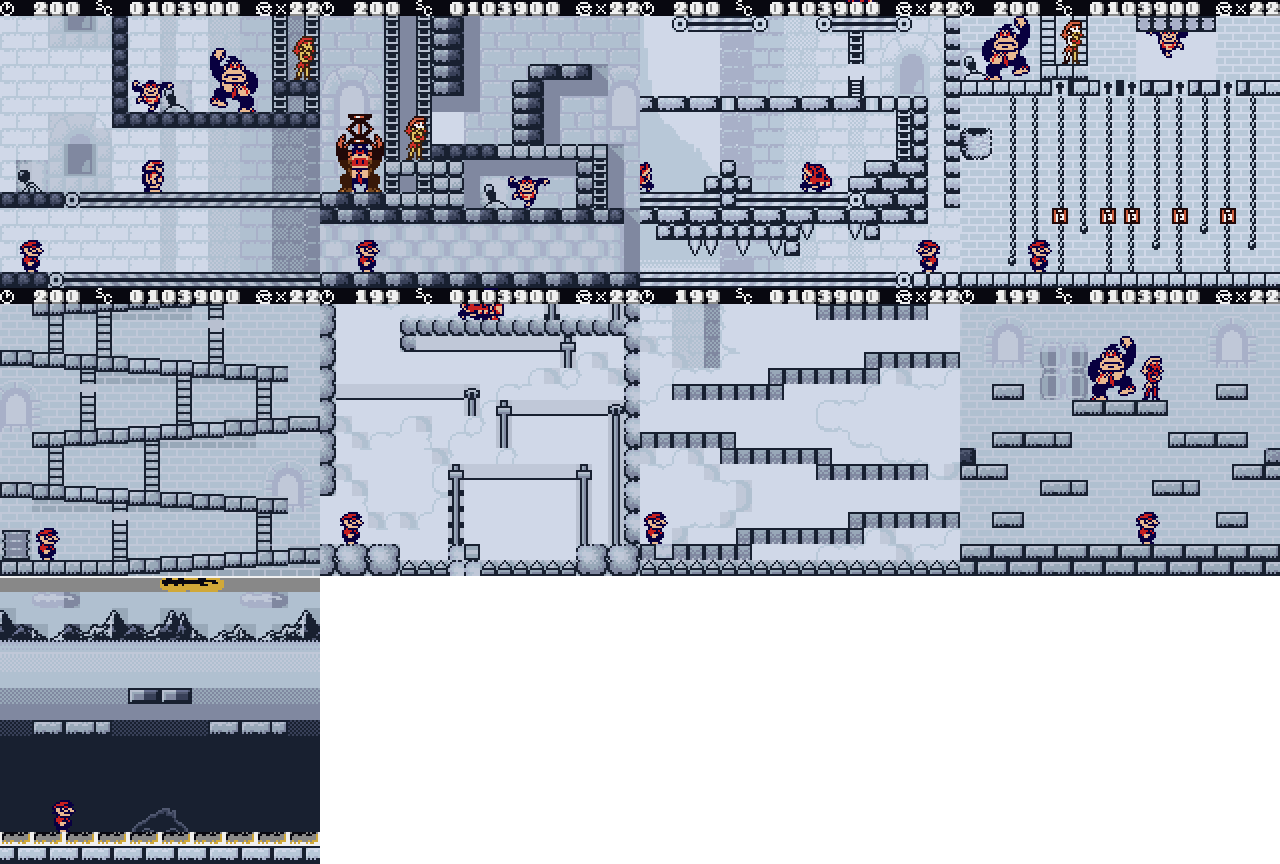
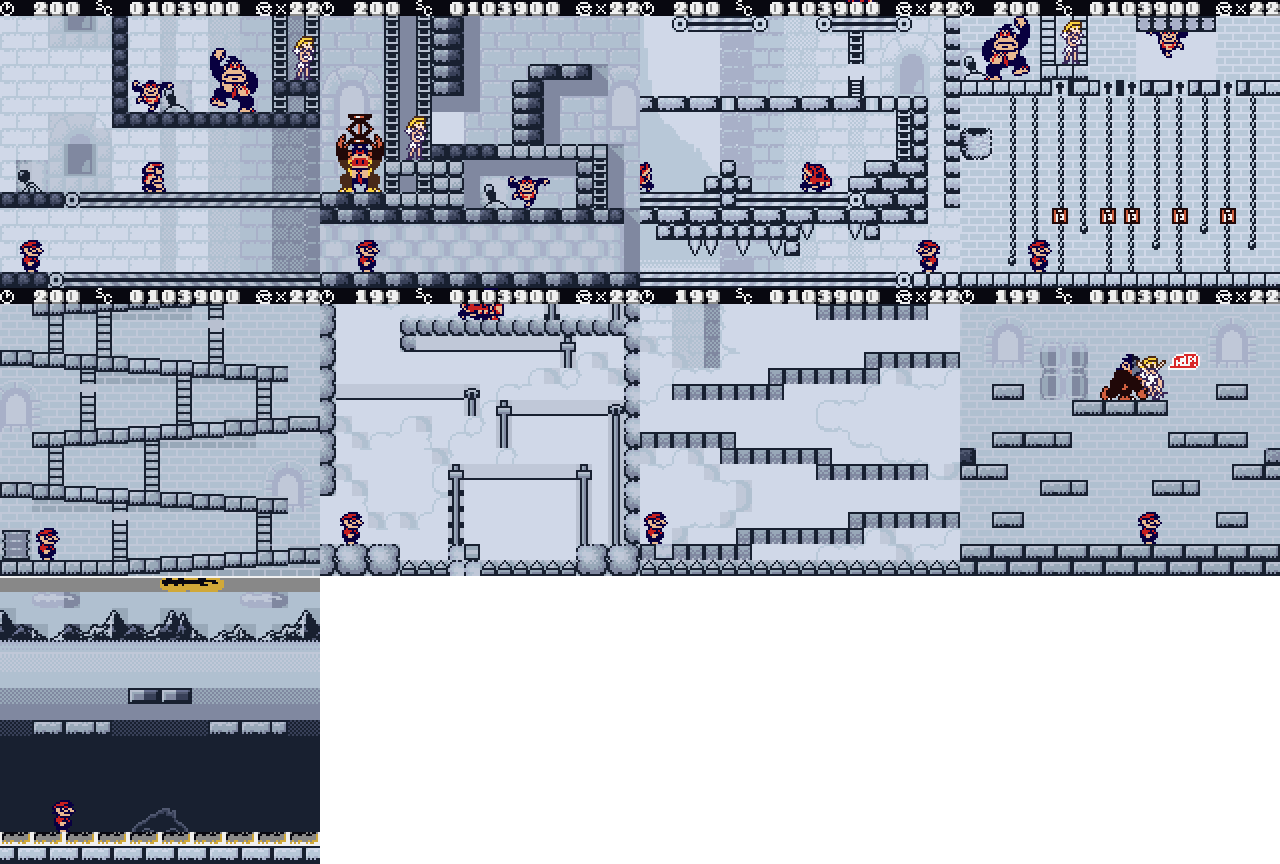
Pauline: yellow hair, white dress, red HELP balloon with white words in all world DK stages; refresh screenshots

diff --git a/donkey-kong/tools/dkbuild.py b/donkey-kong/tools/dkbuild.py
@@ -58,9 +58,18 @@ def build(orig,out,dump=os.path.join(ROOT,'out','sgb')):
     for b,addr,data in maps:
         o=b*0x4000+addr-0x4000; assert all(x==0xff for x in rom[o:o+len(data)]); rom[o:o+len(data)]=data
     print('stage maps',len(maps),'bytes',sum(len(m[2]) for m in maps))
-    blob4+=bytes(blob5)+bytes(slots)
+    pj=json.load(open(os.path.join(ROOT,'data','pauline.json'))); psteps=sorted(int(k) for k in pj if int(k)>=13); idx=bytearray(); rec=bytearray()
+    for st in psteps:
+        idx+=_st.pack('<H',st); r=pj[str(st)]
+        for role in ('head','body','bubble'):
+            ids=sorted(int(k,16) for k,v in r.items() if v==role); assert len(ids)=={'head':4,'body':6,'bubble':2}[role],(st,role,ids)
+            rec+=bytes(ids)
+    idx+=b'\xff\xff'; assert len(idx)<=48
+    idx+=bytes(48-len(idx))
+    blob4+=bytes(blob5)+bytes(slots); paulidx=0x7002+len(blob2)+len(blob3)+len(blob4); blob4+=bytes(idx); paulrec=0x7002+len(blob2)+len(blob3)+len(blob4); blob4+=bytes(rec)
+    a_paul=(paulidx,paulrec)
     assert 0x0c not in sec; sec[0x0c]=(0x7002,bytes(blob2)+bytes(blob3)+bytes(blob4)); assert 0x7002+len(sec[0x0c][1])<=0x8000
-    a=gbasm.Asm(); a.sym['DPAL']=sym['DPAL'][1]; a.sym['ATFTAB']=sym['ATFTAB'][1]; a.sym['OVRD']=ovrd; a.sym['OVRD2']=0x7002; a.sym['OVRDC']=0x7002+896; a.sym['OVRDT']=0x7002+896+744; a.sym['OVRDG']=0x7002+896+744+9*128; a.sym['OVRDTAB']=a.sym['OVRDG']+256; a.sym['OVRSLOT']=a.sym['OVRDTAB']+331
+    a=gbasm.Asm(); a.sym['DPAL']=sym['DPAL'][1]; a.sym['ATFTAB']=sym['ATFTAB'][1]; a.sym['OVRD']=ovrd; a.sym['OVRD2']=0x7002; a.sym['OVRDC']=0x7002+896; a.sym['OVRDT']=0x7002+896+744; a.sym['OVRDG']=0x7002+896+744+9*128; a.sym['OVRDTAB']=a.sym['OVRDG']+256; a.sym['OVRSLOT']=a.sym['OVRDTAB']+331; a.sym['PAULIDX']=a_paul[0]; a.sym['PAULREC']=a_paul[1]
     a.include(os.environ.get('HOOKS') or os.path.join(ROOT,'color','hooks.s')); code=a.link(); S=a.sym
     json.dump({k:v for k,v in S.items() if isinstance(v,int)},open(os.path.join(ROOT,'out','syms.json'),'w'))
     lo,hi=min(code),max(k for k in code if k<0x4000)
@@ -95,6 +104,13 @@ def build(orig,out,dump=os.path.join(ROOT,'out','sgb')):
             if 0x10000<=i<0x14000 and lo&m and hi&m: rom[i+2*row+1]=hi&~m; n+=1
             i=orig.find(tile,i+1)
         print('mario eye tile %s row %d col %d: %d copies'%(th[:8],row,col,n))
+    for th in json.load(open(os.path.join(ROOT,'data','pauline_tiles.json'))):   # Pauline's upper dress: idx2 -> idx3 so the head palette shows it light (hair stays yellow)
+        tile=bytes.fromhex(th); i=orig.find(tile); n=0
+        while i>=0:
+            for r in range(8):
+                lo,hi=rom[i+2*r],rom[i+2*r+1]; rom[i+2*r]=lo|(hi&~lo)
+            n+=1; i=orig.find(tile,i+1)
+        print('pauline dress tile',th[:8],n,'copies')
     rom[0x143]=0x80                                          # CGB-compatible
     c=0
     for i in range(0x134,0x14d): c=(c-rom[i]-1)&0xff

diff --git a/donkey-kong/tools/paulscan.py b/donkey-kong/tools/paulscan.py
@@ -1,0 +1,40 @@
+"""paulscan.py rom -> out/pauline.json: per stage, OAM tile ids whose VRAM data equals Pauline's tiles of stage 24 (head / body / bubble)"""
+import sys,json; sys.path.insert(0,'tools')
+from gsearch import *
+rom=sys.argv[1]
+r=open('backup/dk.original.gb','rb').read(); b=0x0c*0x4000+(0x4f97-0x4000)
+T=[(r[b+i*2],r[b+i*2+1]) for i in range(331)]
+s=parse(open('out/state3/orig.raw','rb').read())
+def boot_to(step):
+    p=boot(rom,s); m=p.memory
+    m[0xc82b]=s['wram'][0x82b]|0x80; m[0xda40]=0x9c
+    for f in range(4000):
+        if f==5: v=step-1; m[0xc85c]=v&255; m[0xc85d]=v>>8
+        if f>=20 and f%40==0: p.button('a',8)
+        p.tick()
+        if (m[0xc85c]|m[0xc85d]<<8)==step and f>40 and m[0xff8f]!=0: break
+    return p,m
+def raw(m,t,half): a=0x8000+((t&0xfe)+half)*16; return bytes(m[a+k] for k in range(16))
+p,m=boot_to(24)
+ref={}   # (top,bottom) raw -> role
+roles={0xa6:'head',0xa8:'head',0xb2:'head',0xb4:'head',0xaa:'body',0xac:'body',0xae:'body',0xb0:'body',0xb6:'body',0xb8:'body',0xba:'bubble',0xbc:'bubble'}
+for f in range(600):
+    p.tick()
+    for i in range(40):
+        y,x,t=m[0xfe00+i*4],m[0xfe00+i*4+1],m[0xfe00+i*4+2]
+        if y and t in roles: ref[(raw(m,t,0),raw(m,t,1))]=roles[t]
+print(len(ref),'reference tiles')
+res={}
+for i,(o,a) in enumerate(T):
+    if o!=1: continue
+    p,m=boot_to(i); found={}
+    for f in range(600):
+        p.tick()
+        if f%2: continue
+        for k in range(40):
+            y,x,t=m[0xfe00+k*4],m[0xfe00+k*4+1],m[0xfe00+k*4+2]
+            if y and y<160:
+                key=(raw(m,t,0),raw(m,t,1))
+                if key in ref: found[t]=ref[key]
+    if found: res[i]={hex(t):v for t,v in found.items()}; print(i,res[i],flush=True)
+json.dump(res,open('out/pauline.json','w'))

diff --git a/donkey-kong/tools/themes.py b/donkey-kong/tools/themes.py
@@ -27,5 +27,10 @@ for w,(name,sky,dec,st,dn,ink) in W.items():
         q3=[(157,117,115),(128,84,80),(102,52,50),(48,24,26)]
         bg=[q0,q1,q2,q3,q1,q2,q3,ov['bg'][7]]
     if w==1: bg=ov['bg']       # Big-City: exactly the 1-1 / 1-2 palettes
-    out.append({'world':w,'name':name,'bg':[[list(map(float,c)) for c in p] for p in bg],'obj':ov['obj']})
+    obj=[list(p) for p in ov['obj']]
+    # Pauline (palettes 5-7 are derived with OBP1: shade0 unused, shade1 = idx2, shade2 = idx3, shade3 = idx1)
+    obj[5]=[(0,0,0),(252,214,64),(254,234,214),(72,40,24)]      # head: yellow hair, light skin, dark outline
+    obj[6]=[(0,0,0),(255,255,255),(244,200,164),(56,44,88)]     # body: white dress, skin, outline
+    obj[7]=[(0,0,0),(0,0,0),(220,40,44),(255,255,255)]          # HELP balloon: red, white words and border
+    out.append({'world':w,'name':name,'bg':[[list(map(float,c)) for c in p] for p in bg],'obj':[[list(map(float,c)) for c in p] for p in obj]})
 json.dump({'themes':out,'cls':ov['cls']},open('out/themes.json','w')); print('saved out/themes.json')

diff --git a/donkey-kong/tools/paulbottoms.py b/donkey-kong/tools/paulbottoms.py
@@ -1,0 +1,18 @@
+"""bottom halves of Pauline's head sprites (stage 24) -> data/pauline_tiles.json (patched in the ROM: dress pixels idx2 -> idx3)"""
+import sys,json; sys.path.insert(0,'tools')
+from gsearch import *
+s=parse(open('out/state3/orig.raw','rb').read()); p=boot(sys.argv[1],s); m=p.memory
+m[0xc82b]=s['wram'][0x82b]|0x80; m[0xda40]=0x9c; step=24
+for f in range(4000):
+    if f==5: v=step-1; m[0xc85c]=v&255; m[0xc85d]=v>>8
+    if f>=20 and f%40==0: p.button('a',8)
+    p.tick()
+    if (m[0xc85c]|m[0xc85d]<<8)==step and f>40 and m[0xff8f]!=0: break
+out=set()
+for f in range(600):
+    p.tick()
+    for i in range(40):
+        t=m[0xfe00+i*4+2]
+        if m[0xfe00+i*4] and t in (0xa6,0xa8,0xb2,0xb4):
+            a=0x8000+(t|1)*16; out.add(bytes(m[a+k] for k in range(16)).hex())
+json.dump(sorted(out),open('data/pauline_tiles.json','w')); print(len(out),'bottom tiles')

diff --git a/donkey-kong/README.md b/donkey-kong/README.md
@@ -19,7 +19,7 @@ plain DMG or a real SGB the game's original code path still runs.
 * Apply to **your own** copy of the original ROM
   (SHA-1 `6ed661bd1d6d8cdd48e1c10f8ca4e8dcba49128e`, 512 KB, *Donkey Kong (Japan, USA) (En) (SGB Enhanced)*).
 * `python3 apply_patch.py original.gb dk-color.ips dk-color.gb` (or any IPS patcher, e.g. Flips).
-  The patched ROM has SHA-1 `62b9dfb6bae1772060b7c03ba4ae09b6551b5ae9`.
+  The patched ROM has SHA-1 `689df0bc952ec358fa16fd75cd2b3cf600a6021e`.
 * Run it in a CGB-capable emulator (SameBoy, mGBA, BGB, Gambatte) or on a Game Boy Color.
 * **No ROM is included in this repository.** Only the patch (my own code and colour data) and the build sources.
 
@@ -40,6 +40,7 @@ plain DMG or a real SGB the game's original code path still runs.
   classified from the tile graphics (`tools/stagecap.py`, `tools/stagemaps.py` -> `data/stagemaps.json`, stored in free
   ROM space). Big-City 1-3..1-8 reuse the exact 1-1 / 1-2 palettes, with tiles coloured like their 1-1 / 1-2 counterparts (nearest-tile match for new tiles). The 19 horizontally scrolling stages still use one flat palette per world.
 * Mario's eye pixel (drawn in the hat colour in the DMG art) is turned into an outline pixel in his head tiles, so his face has no red (`data/mario_eye.json`, `tools/marioeye.py`).
+* Pauline (all world Donkey Kong stages): yellow hair, white dress, and the HELP! balloon is red with white words. Her sprite tiles get their own palettes per stage (`data/pauline.json`, `tools/paulscan.py`); the upper-dress pixels of her head tiles are re-indexed in the ROM (`data/pauline_tiles.json`). The four classic stages are not covered.
 * Donkey Kong is brown and beige in the classic stages 2, 3 and 4 (his tiles differ per stage).
 
 ## All worlds
